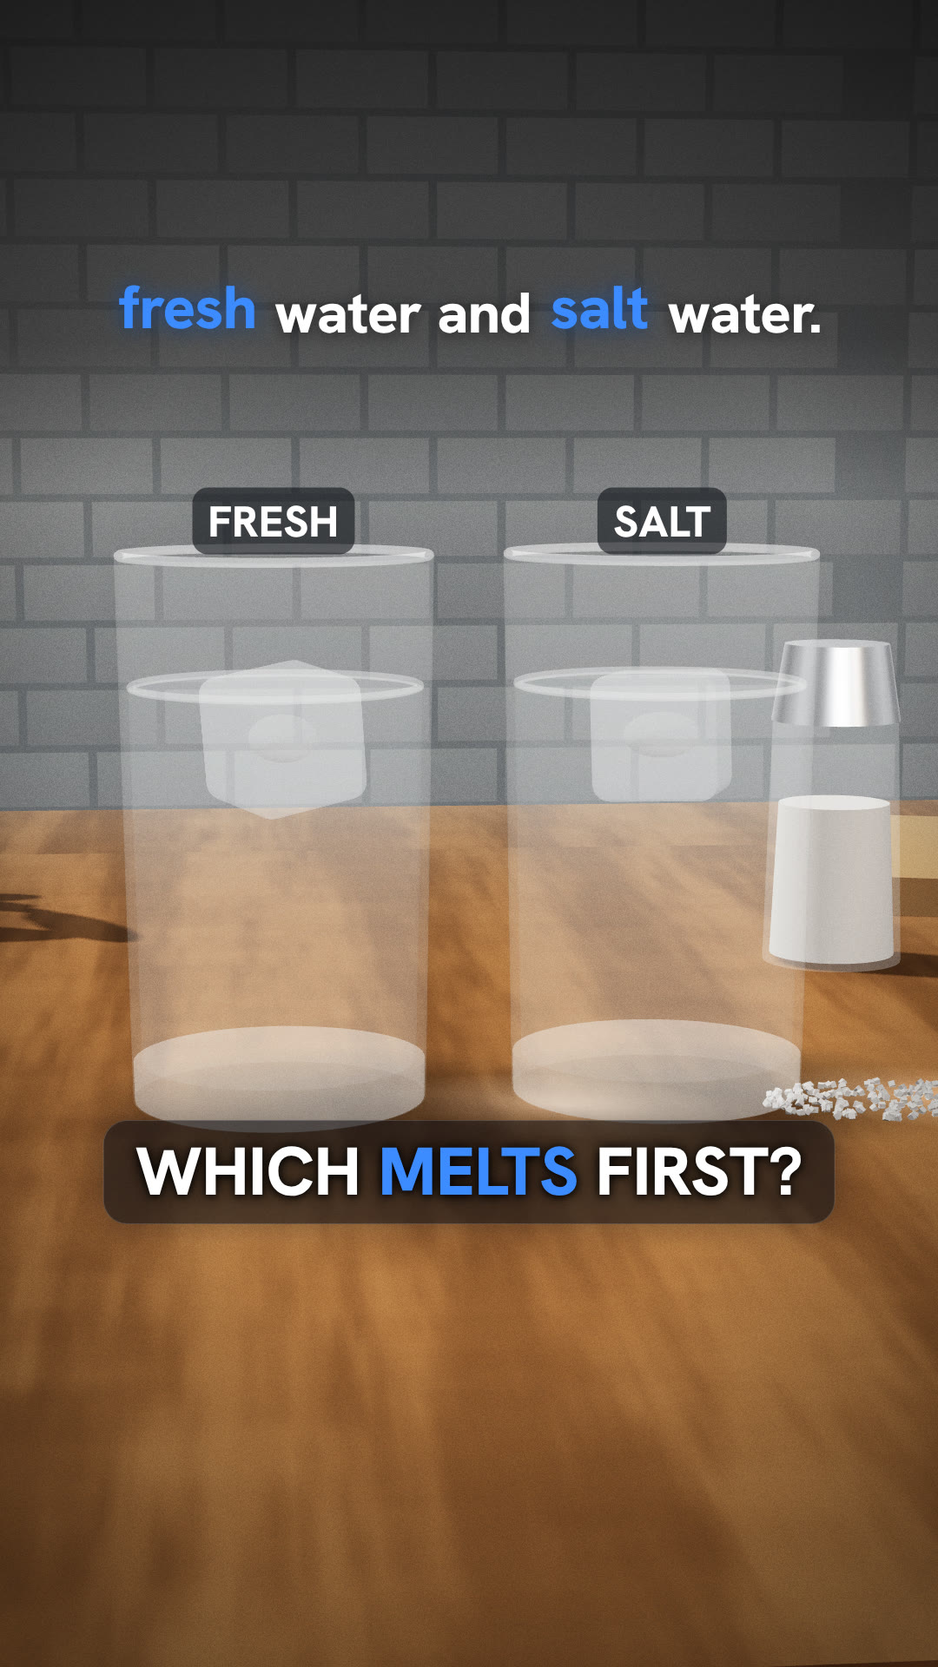
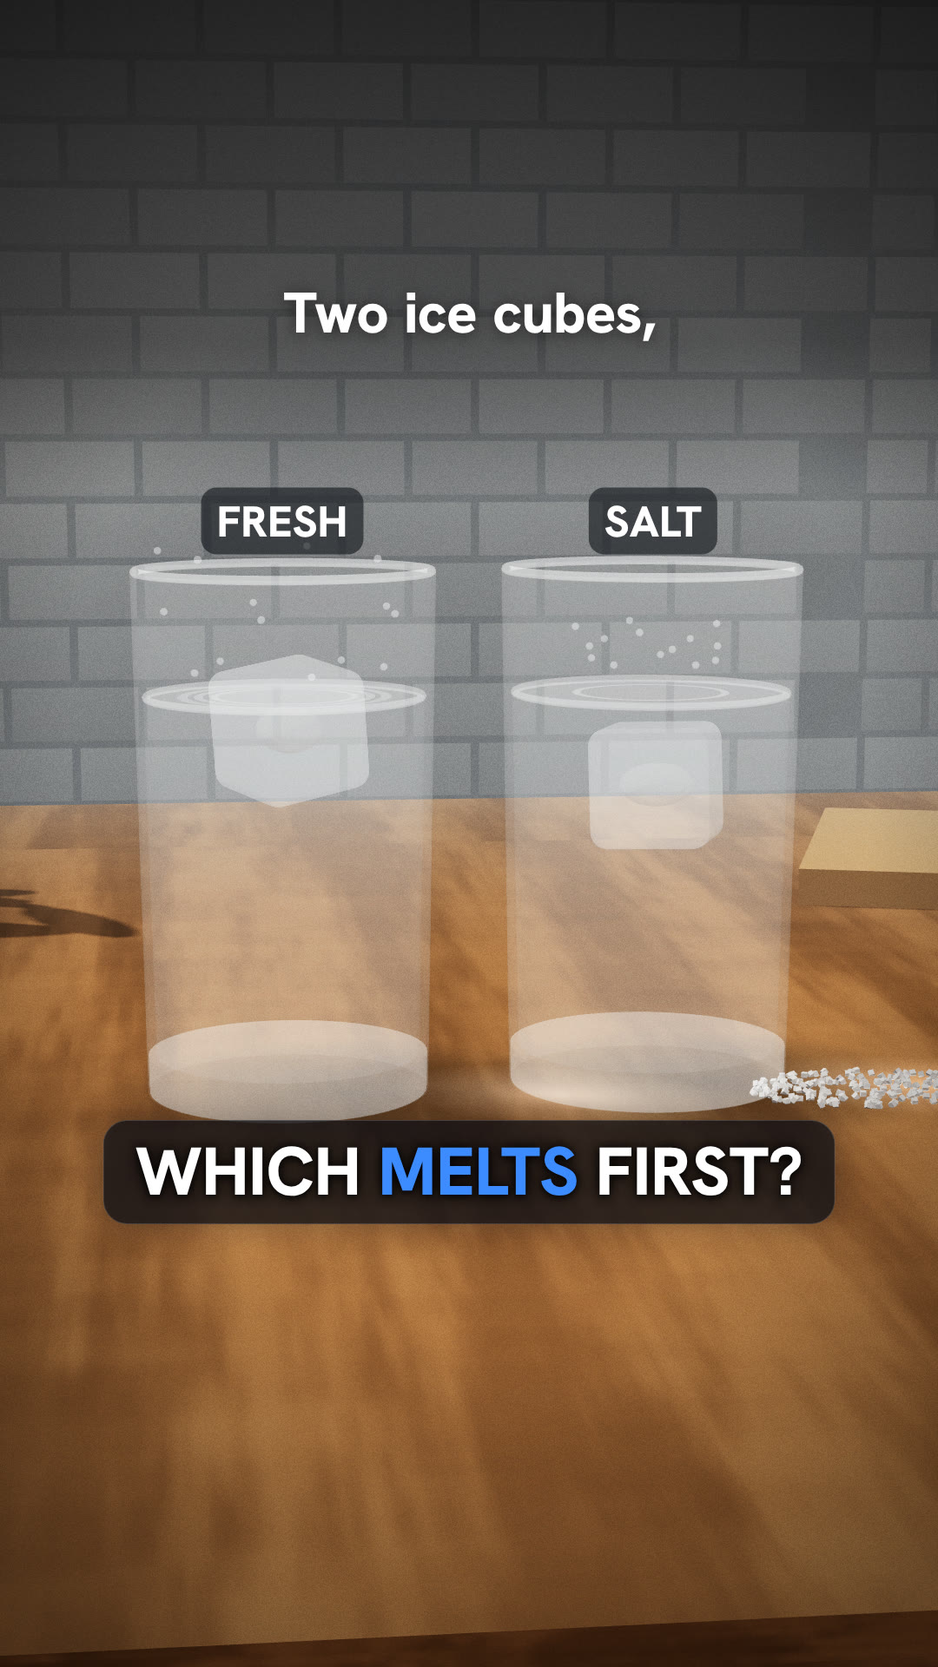
factory(fresh-or-salt-which-ice-melts-first-ec1050): v1 checks; motion and mute-test fixes for v2
Claude-Session: https://claude.ai/code/session_01WProZZH8unJCBQgfkDmFzB

diff --git a/projects/fresh-or-salt-which-ice-melts-first-ec1050/film/src/Scene.tsx b/projects/fresh-or-salt-which-ice-melts-first-ec1050/film/src/Scene.tsx
@@ -145,7 +145,7 @@ export const Scene: React.FC<{t: number}> = ({t}) => {
       const ripples = [0, 1, 2].map(() => { const m = new THREE.Mesh(new THREE.RingGeometry(0.9, 1, 64).rotateX(-Math.PI / 2), new THREE.MeshBasicMaterial({color: col('#ffffff'), transparent: true, opacity: 0, depthWrite: false})); m.position.y = TL.WH + 0.03; m.renderOrder = 7; g.add(m); return m; });
       const drops = Array.from({length: 14}, () => { const m = new THREE.Mesh(new THREE.SphereGeometry(0.09, 10, 8), new THREE.MeshPhysicalMaterial({color: col('#e8f6ff'), roughness: 0.02, transparent: true, opacity: 0.45, envMap: envTex, envMapIntensity: 2})); m.renderOrder = 9; g.add(m); return m; });
       const dye = makeCloud(1400, TL.BLUE, 3, r); g.add(dye.pts);
-      const warm = makeCloud(120, TL.AMBER, 3, r); g.add(warm.pts);
+      const warm = makeCloud(170, TL.AMBER, 3, r); g.add(warm.pts);
       glasses[name] = {g, cube, ripples, drops, dye, warm, seedTilt: gi};
     });
     // salt shaker and spilled salt beside the salt glass
@@ -156,8 +156,11 @@ export const Scene: React.FC<{t: number}> = ({t}) => {
     shaker.add(shSalt, shGlass, shCap); shaker.visible = false;   // read as a cylinder inside the salt glass; the spilled salt stays shCap.castShadow = shSalt.castShadow = true;
     const NG = 220; const grains = new THREE.InstancedMesh(new THREE.BoxGeometry(0.14, 0.12, 0.14), new THREE.MeshStandardMaterial({color: col('#ffffff'), roughness: 0.5, emissive: col('#888888'), emissiveIntensity: 0.2}), NG);
     { const M = new THREE.Matrix4(), q = new THREE.Quaternion(); for (let i = 0; i < NG; i++) { const a = r() * 6.28, d = Math.sqrt(r()) * 2.2; q.setFromEuler(new THREE.Euler(r() * 3, r() * 3, r() * 3));
-      M.compose(new THREE.Vector3(TL.GX.salt + 5.2 + Math.cos(a) * d * 1.4, 0.06, 1.8 + Math.sin(a) * d * 0.8), q, new THREE.Vector3(1, 1, 1)); grains.setMatrixAt(i, M); } }
+      M.compose(new THREE.Vector3(TL.GX.salt + 4.4 + Math.cos(a) * d * 0.9, 0.06, -3.5 + Math.sin(a) * d * 0.8), q, new THREE.Vector3(1, 1, 1)); grains.setMatrixAt(i, M); } }
     root.add(grains);
+    // salt poured into the SALT glass: grains fall from above the rim and vanish as they dissolve below the surface
+    const NPOUR = 160; const pour = new THREE.InstancedMesh(new THREE.BoxGeometry(0.13, 0.11, 0.13), new THREE.MeshStandardMaterial({color: col('#ffffff'), roughness: 0.4, emissive: col('#bbbbbb'), emissiveIntensity: 0.4}), NPOUR);
+    pour.frustumCulled = false; pour.renderOrder = 4; root.add(pour); const pSeed = Array.from({length: NPOUR}, () => [r(), r(), r(), r()]);
 
     // ----- road cutaway: asphalt under a sheet of ice, salt grains fall, wet dark spots spread
     const road = new THREE.Group(); road.position.set(...TL.ROAD_O); root.add(road);
@@ -179,13 +182,13 @@ export const Scene: React.FC<{t: number}> = ({t}) => {
     const iceSheet = new THREE.Mesh(new THREE.PlaneGeometry(120, 120).rotateX(-Math.PI / 2), new THREE.MeshPhysicalMaterial({map: frost, transparent: true, roughness: 0.25, clearcoat: 1, envMap: envTex, envMapIntensity: 0.8, depthWrite: false}));
     iceSheet.position.y = 0.05; iceSheet.renderOrder = 1; road.add(iceSheet);
     const NR = 60; const rSeed = Array.from({length: NR}, () => [(r() - 0.5) * 14, (r() - 0.5) * 10, r(), r()]);
-    const rGrains = new THREE.InstancedMesh(new THREE.BoxGeometry(0.16, 0.14, 0.16), new THREE.MeshStandardMaterial({color: col('#ffffff'), roughness: 0.4, emissive: col('#aaaaaa'), emissiveIntensity: 0.3}), NR); rGrains.castShadow = true; road.add(rGrains);
+    const rGrains = new THREE.InstancedMesh(new THREE.BoxGeometry(0.24, 0.2, 0.24), new THREE.MeshStandardMaterial({color: col('#ffffff'), roughness: 0.4, emissive: col('#aaaaaa'), emissiveIntensity: 0.3}), NR); rGrains.castShadow = true; road.add(rGrains);
     const wet = new THREE.InstancedMesh(new THREE.CircleGeometry(1, 40).rotateX(-Math.PI / 2), new THREE.MeshPhysicalMaterial({color: col('#2c323a'), roughness: 0.08, clearcoat: 0.6, envMap: envTex, envMapIntensity: 0.35, transparent: true, opacity: 0.85, depthWrite: false}), NR);
     wet.position.y = 0.09; wet.renderOrder = 2; road.add(wet);
     const roadSun = new THREE.DirectionalLight(col('#dfe8ff'), 2.2); roadSun.position.set(TL.ROAD_O[0] - 30, 50, -20); roadSun.target.position.set(...TL.ROAD_O); roadSun.castShadow = true;
     Object.assign(roadSun.shadow.camera, {left: -20, right: 20, top: 20, bottom: -20, near: 10, far: 150}); roadSun.shadow.camera.updateProjectionMatrix(); root.add(roadSun, roadSun.target);
 
-    return {root, key, hemi, glasses, road, rGrains, wet, rSeed, roadSun, envTex};
+    return {root, key, hemi, glasses, pour, pSeed, road, rGrains, wet, rSeed, roadSun, envTex};
   }, [gl, scene]);
 
   // ---------- per frame
@@ -237,7 +240,7 @@ export const Scene: React.FC<{t: number}> = ({t}) => {
           } else {
             const q = Math.min(1, (age - fall) / 0.25); const rr = Math.min(R, Math.hypot(x0, z0) * 1.6 + (Math.sqrt(s5) * R - Math.hypot(x0, z0) * 1.6) * q);
             const aa = ang + (s2 - 0.5) * 2.5 * q;
-            x = Math.cos(aa) * rr; z = Math.sin(aa) * rr; y = floorY + 0.3 * Math.sin(t * 0.8 + s1 * 9);
+            const sw = aa + 0.3 * t * (s1 - 0.5); x = Math.cos(sw) * rr; z = Math.sin(sw) * rr; y = floorY + 0.35 * Math.sin(t * 1.4 + s1 * 9);
             a = 0.16 + 0.1 * (1 - q); sz = 0.7 + 0.9 * q;
           }
         } else {
@@ -246,7 +249,7 @@ export const Scene: React.FC<{t: number}> = ({t}) => {
           const q = Math.min(1, age / 0.1);
           const thick = 0.35 + 3.2 * p;
           const rr = r0 + (Math.max(r0, Math.sqrt(s1) * R) - r0) * (1 - (1 - q) ** 2);
-          const aa = ang + 0.6 * q * (s2 - 0.5) + 0.05 * t;
+          const aa = ang + 0.6 * q * (s2 - 0.5) + 0.25 * t * (0.5 + s4);
           x = Math.cos(aa) * rr; z = Math.sin(aa) * rr; y = TL.WH - 0.15 - s3 * thick * (0.3 + 0.7 * q) + 0.08 * Math.sin(t * 1.3 + s4 * 9);
           a = 0.12 * (0.6 + 0.4 * q); sz = 0.4 + 0.6 * q;
         }
@@ -261,26 +264,38 @@ export const Scene: React.FC<{t: number}> = ({t}) => {
       const [s0, s1, s2, s3] = Wm.seed[i];
       let x = 0, y = -100, z = 0, a = 0;
       if (on > 0) {
-        const ph = (t * 0.22 + s0) % 1, ang = s1 * 6.283 + t * 0.15;
+        const ph = (t * 0.32 + s0) % 1, ang = s1 * 6.283 + t * 0.35;
         if (name === 'fresh') {
           // rises up the sides from below, then turns in toward the cube
           const yb = TL.GBASE + 1.2 + p * 2.5, yt = cubeY - 0.6;
           const up = Math.min(1, ph / 0.75), inn = Math.max(0, (ph - 0.75) / 0.25);
           const rr = R * (0.88 - 0.06 * s2) * (1 - inn) + TL.CUBE * 0.55 * k * inn;
           x = Math.cos(ang) * rr; z = Math.sin(ang) * rr; y = yb + (yt - yb) * up + 0.6 * inn;
-          a = 0.32 * on * Math.sin(Math.PI * Math.min(1, ph * 1.05));
+          a = 0.45 * on * Math.sin(Math.PI * Math.min(1, ph * 1.05));
         } else {
           // slow loops below the blue layer, never reaching the cube
           const top = TL.WH - 0.6 - (0.35 + 3.2 * p), bot = TL.GBASE + 0.6;
           const lp = ph * 6.283; const rr = R * (0.35 + 0.5 * s2);
           x = Math.cos(ang) * rr; z = Math.sin(ang) * rr; y = bot + (top - bot) * (0.5 + 0.45 * Math.sin(lp + s3 * 6));
-          a = 0.12 * on;
+          a = 0.24 * on;
         }
       }
       Wm.pos[i * 3] = x; Wm.pos[i * 3 + 1] = y; Wm.pos[i * 3 + 2] = z; Wm.a[i] = a; Wm.s[i] = 0.4 + s3 * 0.25;
     }
     touch(Wm); (Wm.pts.material as THREE.ShaderMaterial).uniforms.uScale.value = scale;
   });
+
+  // ----- salt pour (hook only)
+  { const M = new THREE.Matrix4(), hid = new THREE.Matrix4().makeScale(0, 0, 0);
+    W.pSeed.forEach(([a, b, c2, d], i) => {
+      const k = t - TL.POUR - a * 0.6; if (shot !== 'hook' || k < 0) { W.pour.setMatrixAt(i, hid); return; }
+      const y = TL.GH + 6 - 0.5 * 600 * k * k - (TL.GH + 6 - TL.WH > 0 && k * k * 300 > TL.GH + 6 - TL.WH ? (k * k * 300 - (TL.GH + 6 - TL.WH)) * 0.0 : 0);
+      const yy = Math.max(y, TL.WH - 2.5 * Math.min(1, Math.max(0, (TL.GH + 6 - TL.WH - 300 * k * k) * -0.05)));
+      const under = y < TL.WH; const sub = TL.WH - (TL.WH - y) * 0.08;
+      if (under && TL.WH - y > 40) { W.pour.setMatrixAt(i, hid); return; }
+      M.makeTranslation(TL.GX.salt + (b - 0.5) * 1.2 + 0.8, under ? sub : yy, (c2 - 0.5) * 1.2); W.pour.setMatrixAt(i, M);
+    });
+    W.pour.instanceMatrix.needsUpdate = true; }
 
   // ----- road
   W.road.visible = shot === 'road';
@@ -289,7 +304,7 @@ export const Scene: React.FC<{t: number}> = ({t}) => {
     W.rSeed.forEach(([x, z, d, s], i) => {
       const k = t - TL.ROAD_SALT_T - d * 0.6; const y = k < 0 ? 30 : Math.max(0.2, 14 - 0.5 * 980 * 0.02 * k * k * 3);
       e.set(d * 9 + t * (y > 0.2 ? 6 : 0), s * 9, 0); q.setFromEuler(e); M.compose(new THREE.Vector3(x, y, z), q, new THREE.Vector3(1, 1, 1)); W.rGrains.setMatrixAt(i, M);
-      const land = k - Math.sqrt(14 / (0.5 * 980 * 0.02 * 3)); const wr = land < 0 ? 0.0001 : Math.min(0.55 + 0.35 * s, 0.12 + land * (0.7 + s * 0.4));
+      const land = k - Math.sqrt(14 / (0.5 * 980 * 0.02 * 3)); const wr = land < 0 ? 0.0001 : Math.min(0.55 + 0.35 * s, 0.05 + land * (0.45 + s * 0.3));
       M.compose(new THREE.Vector3(x, 0, z), new THREE.Quaternion(), new THREE.Vector3(wr, 1, wr * (0.8 + 0.3 * d))); W.wet.setMatrixAt(i, M);
     });
     W.rGrains.instanceMatrix.needsUpdate = true; W.wet.instanceMatrix.needsUpdate = true;

diff --git a/projects/fresh-or-salt-which-ice-melts-first-ec1050/film/src/timeline.ts b/projects/fresh-or-salt-which-ice-melts-first-ec1050/film/src/timeline.ts
@@ -63,23 +63,23 @@ const R = ROAD_O;
 export const camAt = (t: number): Cam => {
   const s = shotAt(t);
   switch (s) {
-    case 'hook': return move(t, s, {pos: [-8, 17, 66], look: [0, 6.2, 0], fov: 34}, {pos: [-3, 14, 58], look: [0, 6.0, 0], fov: 34}, lin);
-    case 'guess': return move(t, s, {pos: [7, 12, 58], look: [0.5, 6.0, 0], fov: 34}, {pos: [11, 11, 54], look: [1.2, 5.8, 0], fov: 34}, lin);
-    case 'road': return move(t, s, {pos: [R[0] - 4, 10, 22], look: [R[0], 0, 0], fov: 38}, {pos: [R[0] - 2, 7, 16], look: [R[0], 0, 0], fov: 38}, lin);
-    case 'race': return move(t, s, {pos: [0, 11, 62], look: [0, 5.8, 0], fov: 34}, {pos: [0, 10, 57], look: [0, 5.8, 0], fov: 34}, lin);
-    case 'fresh': return move(t, s, {pos: [GX.fresh - 6, 9.5, 34], look: [GX.fresh, 6.6, 0], fov: 38}, {pos: [GX.fresh + 3, 8.5, 32], look: [GX.fresh, 6.4, 0], fov: 38}, lin);
-    case 'salt': return move(t, s, {pos: [GX.salt + 6, 11, 34], look: [GX.salt, 7.0, 0], fov: 38}, {pos: [GX.salt - 3, 10.5, 32], look: [GX.salt, 7.0, 0], fov: 38}, lin);
-    case 'end': return move(t, s, {pos: [0, 10, 54], look: [0, 6.0, 0], fov: 34}, {pos: [0, 12, 62], look: [0, 5.8, 0], fov: 34}, Easing.bezier(0.45, 0, 0.35, 1));
+    case 'hook': return move(t, s, {pos: [-16, 19, 68], look: [0, 6.2, 0], fov: 34}, {pos: [-2, 13, 56], look: [0, 6.0, 0], fov: 34});
+    case 'guess': return move(t, s, {pos: [4, 11, 58], look: [0.5, 6.0, 0], fov: 34}, {pos: [16, 10.5, 52], look: [1.4, 5.8, 0], fov: 34});
+    case 'road': return move(t, s, {pos: [R[0] - 8, 12, 24], look: [R[0], 0, 0], fov: 38}, {pos: [R[0] + 1, 6, 14], look: [R[0], 0, 0], fov: 38});
+    case 'race': return move(t, s, {pos: [-6, 11, 63], look: [0, 5.8, 0], fov: 34}, {pos: [5, 10, 56], look: [0, 5.8, 0], fov: 34});
+    case 'fresh': return move(t, s, {pos: [GX.fresh - 14, 11, 31], look: [GX.fresh, 6.6, 0], fov: 38}, {pos: [GX.fresh + 12, 7.5, 30], look: [GX.fresh, 6.2, 0], fov: 38}, lin);
+    case 'salt': return move(t, s, {pos: [GX.salt + 14, 12, 31], look: [GX.salt, 7.0, 0], fov: 38}, {pos: [GX.salt - 12, 10, 30], look: [GX.salt, 7.2, 0], fov: 38}, lin);
+    case 'end': return move(t, s, {pos: [-9, 9, 50], look: [0, 6.0, 0], fov: 34}, {pos: [1, 13, 62], look: [0, 5.8, 0], fov: 34}, Easing.bezier(0.45, 0, 0.35, 1));
   }
 };
 
 // ---------- the ice: drop at the hook, then melt progress p (0 = whole cube, 1 = gone) per glass
-export const DROP = {fresh: T.two + 0.15, salt: T.two + 0.45};
+export const DROP = {fresh: T.two + 0.55, salt: T.two + 0.85};
 export const dropY = (t: number, g: 'fresh' | 'salt') => {   // cube centre height above the water line rest position
   const s = shotAt(t); if (s !== 'hook') return 0;
-  const k = t - DROP[g]; if (k < -0.5) return 14;
+  const k = t - DROP[g]; if (k < -0.5) return 9;
   const hit = 0.32;
-  if (k < hit) return 14 - 14 * Math.min(1, (k + 0.5) / (hit + 0.5)) ** 2;
+  if (k < hit) return 9 - 9 * Math.min(1, (k + 0.5) / (hit + 0.5)) ** 2;
   const a = k - hit; return -1.6 * Math.exp(-a * 3.2) * Math.sin(a * 11);
 };
 export const splash = (t: number, g: 'fresh' | 'salt') => (shotAt(t) === 'hook' ? t - DROP[g] - 0.32 : -1);
@@ -89,7 +89,7 @@ export const meltP = (t: number, g: 'fresh' | 'salt'): number => {
   const k = g === 'fresh' ? 1 : 0.5;   // salt melts about half as fast (sources: about 2x the time)
   if (s === 'race') return k * ramp(t, CUT.race + 0.3, T.first + 0.45, Easing.bezier(0.3, 0, 0.6, 1));
   if (s === 'fresh') return g === 'fresh' ? L(0.06, 0.72, ramp(t, shotStart(s), shotEnd(s), lin)) : 0.36 * ramp(t, shotStart(s), shotEnd(s), lin);
-  if (s === 'salt') return g === 'salt' ? L(0.04, 0.42, ramp(t, shotStart(s), shotEnd(s), lin)) : 0.8;
+  if (s === 'salt') return g === 'salt' ? L(0.12, 0.45, ramp(t, shotStart(s), shotEnd(s), lin)) : 0.8;
   if (s === 'end') return g === 'fresh' ? 1 : L(0.47, 0.5, ramp(t, shotStart(s), shotEnd(s), lin));
   return 0;
 };
@@ -103,4 +103,6 @@ export const warmOn = (t: number, g: 'fresh' | 'salt') => {
 // minutes shown on the race clock (no number is claimed: the clock only says time passes)
 export const raceClock = (t: number) => ramp(t, CUT.race + 0.3, T.first + 0.45, Easing.bezier(0.3, 0, 0.6, 1));
 // road: salt grains fall and wet spots spread from them
-export const ROAD_SALT_T = T.because + 0.2;
+export const ROAD_SALT_T = CUT.road + 0.05;
+// salt poured into the SALT glass on the word "salt" in the hook
+export const POUR = cue('and salt water.') + 0.2;

diff --git a/projects/fresh-or-salt-which-ice-melts-first-ec1050/film/src/Film.tsx b/projects/fresh-or-salt-which-ice-melts-first-ec1050/film/src/Film.tsx
@@ -77,23 +77,23 @@ export const Film: React.FC<{captions?: boolean}> = ({captions = true}) => {
       </>}
       {shot === 'road' && <>
         <Tag x={540} y={640} o={TL.ramp(t, TL.CUT.road + 0.1, TL.CUT.road + 0.4)} size={52}>ROAD SALT ON ICE</Tag>
-        <Card y={1350} o={TL.ramp(t, T.roads - 0.1, T.roads + 0.2)} size={66}>SALT <span style={{color: B}}>MELTS</span> ROAD ICE</Card>
+        <Card y={1350} o={TL.ramp(t, T.because + 0.3, T.because + 0.55)} size={66}>SALT <span style={{color: B}}>MELTS</span> ROAD ICE</Card>
       </>}
       {shot === 'race' && <>
         {labels(1)}
-        <Tag x={540} y={1465} o={TL.ramp(t, TL.CUT.race + 0.1, TL.CUT.race + 0.4)} size={40}>⏱ TIME-LAPSE · {clock < 0.99 ? 'MELTING…' : 'DONE'}</Tag>
+        <Tag x={540} y={1465} o={TL.ramp(t, TL.CUT.race + 0.1, TL.CUT.race + 0.3) * (1 - TL.ramp(t, T.first - 0.3, T.first - 0.1))} size={44}>⏱ TIME-LAPSE</Tag>
         <Tag x={fM.x} y={fM.y} o={TL.ramp(t, T.first + 0.6, T.first + 0.9)} size={40} color={Y}>GONE</Tag>
         <Tag x={sM.x} y={sM.y} o={TL.ramp(t, T.first + 0.6, T.first + 0.9)} size={40}>STILL HERE</Tag>
         <Card y={1350} o={TL.ramp(t, T.first - 0.1, T.first + 0.2)} size={80}><span style={{color: Y}}>FRESH</span> WINS</Card>
       </>}
       {shot === 'fresh' && <>
-        <Tag x={300} y={640} o={TL.ramp(t, TL.CUT.fresh + 0.1, TL.CUT.fresh + 0.4)} size={44}>FRESH · REPLAY</Tag>
-        <Tag x={760} y={1150} o={TL.fade(t, T.cold, 0.3, T.warm, 0.3)} size={46} color={B}>COLD = HEAVY ↓</Tag>
-        <Card y={1350} o={TL.ramp(t, T.warm - 0.1, T.warm + 0.2)} size={70}><span style={{color: A}}>WARM WATER</span> RISES ↑</Card>
+        <Tag x={300} y={720} o={TL.ramp(t, TL.CUT.fresh + 0.05, TL.CUT.fresh + 0.25) * (1 - TL.ramp(t, T.cold - 0.3, T.cold - 0.1))} size={50}>↺ FRESH, REPLAY</Tag>
+        <Tag x={540} y={640} o={TL.fade(t, T.cold - 0.1, 0.2, T.warm, 0.3)} size={54}><span style={{color: B}}>COLD</span> = HEAVY ↓</Tag>
+        <Card y={1430} o={TL.ramp(t, T.warm - 0.1, T.warm + 0.2)} size={62}><span style={{color: A}}>WARM WATER</span> RISES ↑</Card>
       </>}
       {shot === 'salt' && <>
-        <Tag x={780} y={640} o={TL.ramp(t, TL.CUT.salt + 0.1, TL.CUT.salt + 0.4)} size={44}>SALT · REPLAY</Tag>
-        <Tag x={540} y={1180} o={TL.fade(t, T.lighter - 0.1, 0.25, T.blanket - 0.2, 0.3)} size={44} color={B}>LIGHTER THAN SALT WATER ↑</Tag>
+        <Tag x={780} y={720} o={TL.ramp(t, TL.CUT.salt + 0.05, TL.CUT.salt + 0.25)} size={50}>↺ SALT, REPLAY</Tag>
+        <Tag x={540} y={1430} o={TL.fade(t, T.lighter - 0.1, 0.2, T.blanket - 0.2, 0.3)} size={48}><span style={{color: B}}>LIGHTER</span> THAN SALT WATER ↑</Tag>
         <Card y={1350} o={TL.ramp(t, T.blanket - 0.1, T.blanket + 0.2)} size={78}><span style={{color: B}}>COLD</span> BLANKET</Card>
       </>}
       {shot === 'end' && <>

diff --git a/projects/fresh-or-salt-which-ice-melts-first-ec1050/film/sound/mix.py b/projects/fresh-or-salt-which-ice-melts-first-ec1050/film/sound/mix.py
@@ -30,18 +30,19 @@ lo = lambda f: f'lowpass=f={f}'
 pitch = lambda k: f'asetrate=48000*{k},aresample=48000'
 def bed(t0, t1, src, flt, g, note):
     return (t0, src, f'atrim=0:{t1 - t0},{flt},afade=t=in:d=0.4,afade=t=out:st={t1 - t0 - 0.4}:d=0.4', g, note)
-DROP = {'fresh': B['two'] + 0.15 + 0.32, 'salt': B['two'] + 0.45 + 0.32}   # cube hits the water (timeline.ts DROP + 0.32)
+DROP = {'fresh': B['two'] + 0.55 + 0.32, 'salt': B['two'] + 0.85 + 0.32}   # cube hits the water (timeline.ts DROP + 0.32)
 CUES = [
  bed(0, CUT['because'], f'{L}/city-night.flac', 'highpass=f=120,lowpass=f=2500', -40, 'kitchen room tone (window, distant street)'),
  (DROP['fresh'] - 0.02, f'{L}/water-plunge.flac', f'{lo(5000)},{pitch(1.25)},atrim=0:0.9,afade=t=out:st=0.5:d=0.4', -22, 'fresh cube splashes in'),
  (DROP['salt'] - 0.02, f'{L}/water-plunge.flac', f'{lo(5000)},{pitch(1.15)},atrim=0:0.9,afade=t=out:st=0.5:d=0.4', -22, 'salt cube splashes in'),
  (DROP['fresh'] + 0.1, f'{L}/glass-ting.flac', f'{lo(6000)},{pitch(1.3)},afade=t=out:st=0.3:d=0.6', -32, 'ice knocks the glass'),
+ (cue('and salt water.') + 0.3, f'{L}/tile-clicks.flac', f'{lo(6000)},{pitch(1.3)},atrim=0:0.7,afade=t=out:st=0.4:d=0.3', -31, 'salt poured into the SALT glass'),
  (B['pause'], f'{L}/pop-soft.flac', lo(4000), -26, 'the first ? pops up'),
  (B['pause'] + 0.2, f'{L}/pop-soft.flac', f'{lo(4000)},{pitch(1.12)}', -27, 'the second ? pops up'),
  (B['most'] + 0.05, f'{L}/screen-tap.flac', lo(4000), -28, 'MOST PICK SALT: the salt ? turns gold'),
  (CUT['because'] - WP, f'{L}/whoosh-deep.flac', lo(1600), -28, 'cut: the icy road'),
  bed(CUT['because'], CUT['but'], f'{L}/city-night.flac', 'highpass=f=200,lowpass=f=3000', -32, 'outdoors: street air'),
- (B['because'] + 0.45, f'{L}/tile-clicks.flac', f'{lo(5000)},atrim=0:1.2,afade=t=out:st=0.8:d=0.4', -30, 'salt grains patter on the ice'),
+ (CUT['because'] + 0.4, f'{L}/tile-clicks.flac', f'{lo(5000)},atrim=0:1.2,afade=t=out:st=0.8:d=0.4', -30, 'salt grains patter on the ice'),
  (CUT['but'] - WP, f'{L}/whoosh-deep.flac', lo(1600), -28, 'cut: back to the glasses, the race'),
  (CUT['but'] + 0.2, f'{L}/clock-tick.flac', f'{lo(3000)},atempo=2.0,atrim=0:{B["first"] + 0.9 - CUT["but"]},afade=t=out:st={B["first"] + 0.5 - CUT["but"]}:d=0.4', -31, 'time-lapse clock'),
  (B['first'] + 0.05, f'{L}/glass-ting.flac', f'{lo(5000)},afade=t=out:st=0.6:d=0.8', -27, 'FRESH WINS lands'),

diff --git a/projects/fresh-or-salt-which-ice-melts-first-ec1050/brief.md b/projects/fresh-or-salt-which-ice-melts-first-ec1050/brief.md
@@ -23,3 +23,40 @@ video ec1050c4-1cd1-483a-bfc8-779608ca61ab, made in one unsupervised session (ST
   ~/.video-script/profile.md, animated-video SKILL.md, video-script SKILL.md, references/direct.md,
   motion-principles.md, styles/README.md, styles/realistic-3d/README.md, look-pass.md, water.md. Precedent:
   factory/goldfish-remember-for-months-aff640 brief, script and caption (same routine, style and voice).
+- 2026-11-27, steps 1-5: video-script explainers.md, hooks via check_script.py --hooks, check_script.py;
+  animated-video ai-voiceover.md; review.md (stills, mute test, fact check, motion).
+- Skipped, with reason: remotion-pipeline.md and templates/parts/README.md (the copied goldfish scaffold follows
+  them), three.md (read by the sibling films; nothing beyond meshes, points and canvas textures), sourcing.md (no
+  focal object with a real recognisable shape: glasses, cubes and a road are built in code), characters.md (no
+  characters), studio-sound (mix.py copied from the sibling film follows it), hero-assets (off for routines),
+  avatar-cutins (no avatar).
+
+## Decisions (unsupervised; logged)
+- Pictures: no brainstorm agent (time; the planner's picture note is concrete: blue-dyed meltwater sinking vs
+  floating). Picks: two labelled glasses on a kitchen counter, ice dropping in on the hook; question marks for the
+  pause; a cutaway to road salt on ice with dark melt spots (the trap); a time-lapse race (GONE vs STILL HERE); a
+  close replay of each glass: fresh = blue streams sinking and amber warmer water rising to the cube; salt = blue
+  layer spreading on top, amber held below it; pull-back to both glasses.
+- Colour language: BLUE = cold meltwater (dyed, as in the home experiment); AMBER = warmer water; GOLD = the winner
+  / the guess. FRESH always left, SALT always right. Wall made cool grey so blue and amber both read.
+- Time-lapse claims no minutes (sources give no authoritative numbers; ~2x reported). Salt cube shown clearly
+  smaller, not untouched (fact-check note).
+- Salt shaker removed (read as a cylinder inside the salt glass); the spilled salt stays as the salt cue.
+- Close shots hide the other glass (a stray blue blob at the frame edge confused the judge).
+- Sound: mix.py (CC0 cstack library only, 23 cues), Lightless Dawn ducked; voice stem -10.0 LUFS, music -23.6
+  (13.6 dB under), mix -14.4 LUFS, peak -2.0 dBFS. Not listened to (measured only). Music file not committed (15 MB;
+  fetch line in mix.py).
+
+## Checks before the render (2026-11-27)
+- Script: check_script.py flags: slot timing (timing from the VO), "2" in l8 shown as the two glasses on screen.
+  Readability: short sentences, plain words. Fact check: fresh agent, all true; l4, l5, l8 reworded (script.md).
+- VO: say.py r3-m07, 8 lines, 36.1 s assembled (34.6 s to the last word), 2.73 words/s; Whisper transcript matches
+  the script word for word after fix_words.py splits "freshwater"/"saltwater".
+- Stills: five rounds. Fixed: cameras too close (glasses cropped), salt dye layer hiding the cube (ice now drawn over
+  the dye), amber reading as murk, labels colliding with cards, wet road spots invisible then oversized.
+- Mute test, stills pass (fresh judge, 1 still/s, captions off): recovered the race, fresh wins, sinking cold
+  meltwater and rising warm water, floating cold layer as a blanket, road salt as the trap. Fixed: GONE while the
+  cube still showed (melt now ends before the tag), salt density not stated (tag "LIGHTER THAN SALT WATER ↑"),
+  small/faded cards (bigger, faster, more opaque), end framing cropped (wider start), stray blue at the frame edge,
+  shaker, oversized road grains, end not showing the winner (GONE / STILL HERE tags again).
+- Quarter-scale preview + motion_check: skipped for time (slot 00:10 UTC); the motion readout runs on the full cut.

diff --git a/projects/fresh-or-salt-which-ice-melts-first-ec1050/caption.md b/projects/fresh-or-salt-which-ice-melts-first-ec1050/caption.md
@@ -1,0 +1,11 @@
+# Caption (render checkpoint)
+
+Two ice cubes, fresh water and salt water. Which melts first? 🧊 Pause and guess.
+The fresh-water cube wins. Its cold meltwater is heavier, so it sinks and lets warmer water reach the cube. In salt water, the meltwater is lighter, so it floats around the cube as a cold layer.
+Try it at home: two glasses of room-temperature water, a spoonful of salt in one, and ice cubes with a drop of food colouring frozen in.
+
+Music: "Lightless Dawn" by Kevin MacLeod (incompetech.com), CC BY 4.0
+Voice: AI (Qwen3-TTS)
+Animation made in code; the glasses, ice and road are illustrations, and the melt is a time-lapse.
+
+Hashtags: brainteaser, scienceexperiment, kitchenscience, physics, didyouknow, stemforkids
